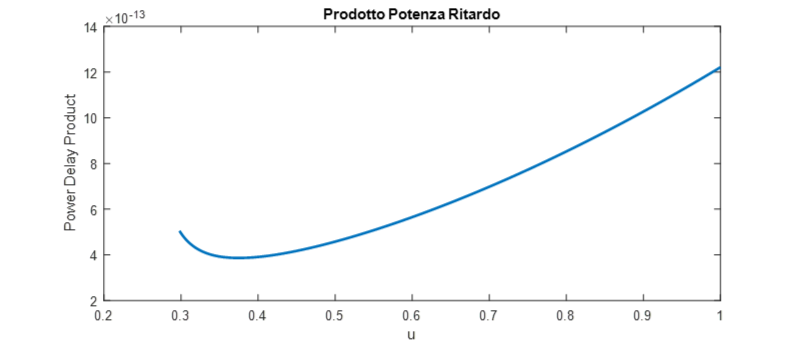
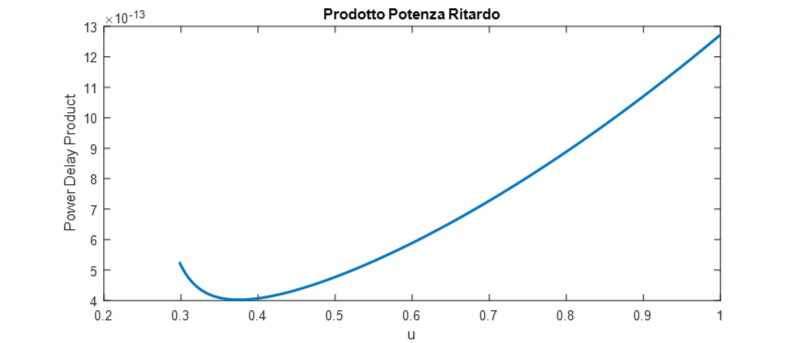
Nuovo plot di matlab e script aggiornato con il registro in più per la pipeline

diff --git a/Lab_3/Es_3/Delay_power_aggiornato.m b/Lab_3/Es_3/Delay_power_aggiornato.m
@@ -53,10 +53,10 @@ if (pipeline == 1)
     tot_delay = reg_delay + comp_delay;               %%CAMBIATO, aggiunto reg_delay
     % Solo pipeline
     if (k_parallelismo == 1)
-        tot_power = 6*reg_pow + 2*incr_pow + comp_pow + mux_pow;
+        tot_power = 7*reg_pow + 2*incr_pow + comp_pow + mux_pow;
     % Pipeline e parallel attivi  
     else
-        tot_power = 6*reg_pow + 2*incr_pow + comp_pow + mux_pow + mux_pow;        
+        tot_power = 7*reg_pow + 2*incr_pow + comp_pow + mux_pow + mux_pow;        
     end
 % Solo parallel   
 else
